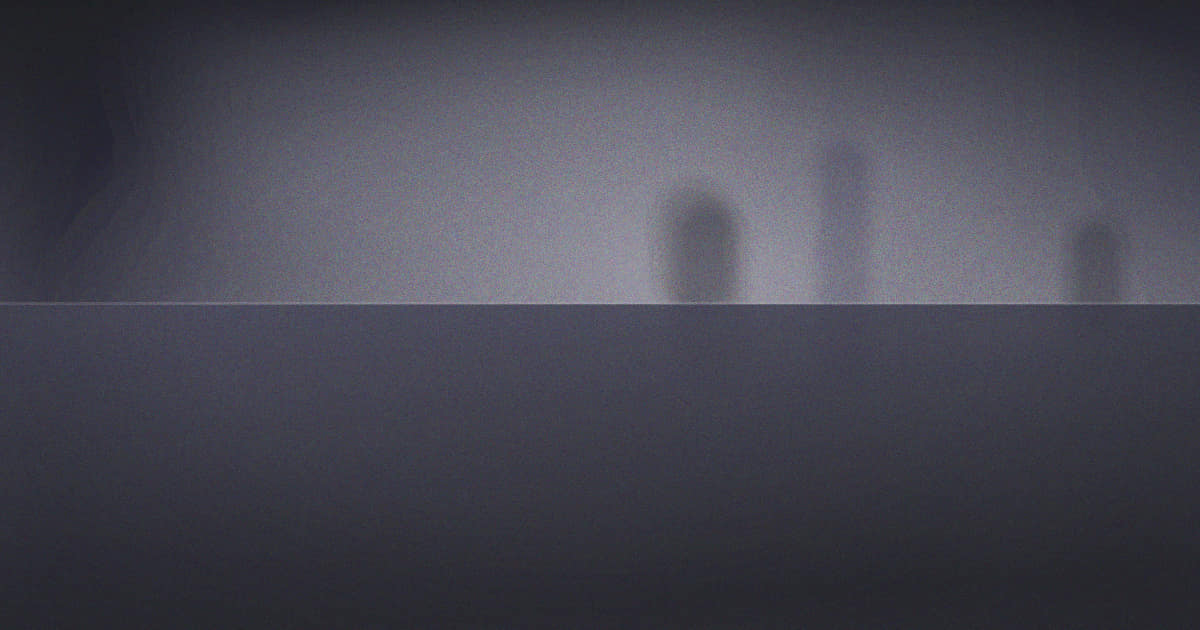
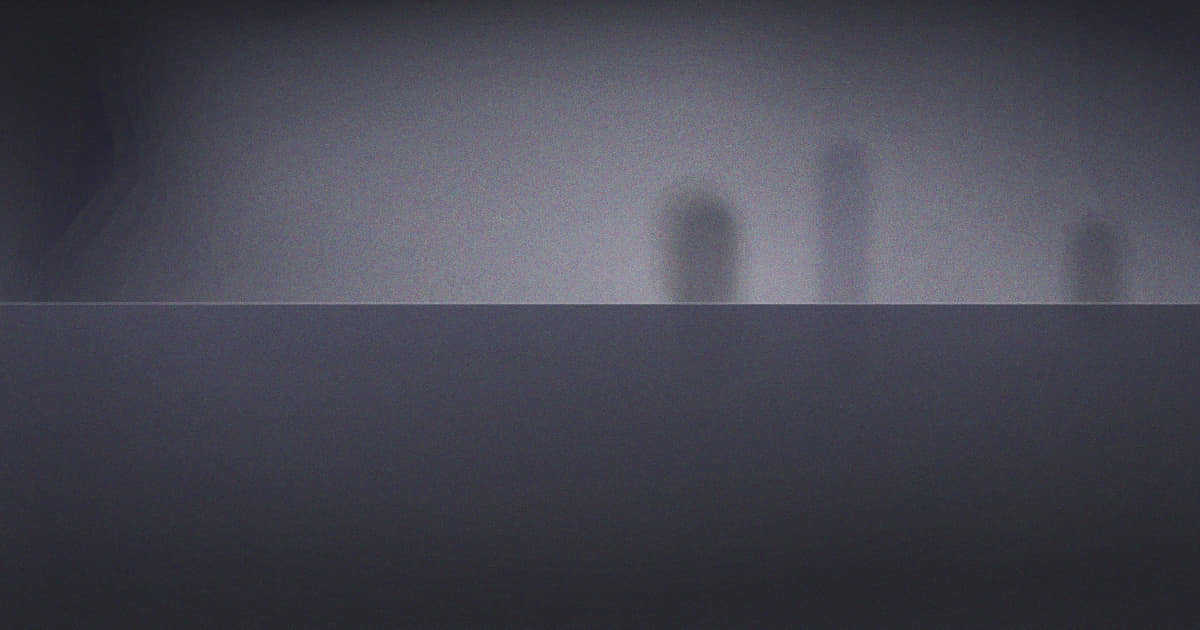
Add the GitHub Pages workflow, and narrow the image script
The workflow type-checks and builds on every push to main and publishes
dist/ as a Pages artifact. The placeholder generator no longer has any
placeholders to generate, so it keeps only the social card and icon.

diff --git a/README.md b/README.md
@@ -23,7 +23,7 @@ npm run dev      # http://localhost:4321
 | `npm run build`      | Static build into `dist/`                         |
 | `npm run preview`    | Serve the built site locally                      |
 | `npm run check`      | Type-check the project                            |
-| `npm run placeholders` | Regenerate the placeholder images (see below)   |
+| `npm run og`         | Re-render `public/og.jpg` and the touch icon      |
 
 ---
 
@@ -46,8 +46,9 @@ Every piece of placeholder content is marked. Search the project for `TODO:`:
 grep -rn "TODO:" src public scripts
 ```
 
-That will turn up the config placeholders, the sample writing, the sample
-story-lane entries, and the placeholder image generator.
+That turns up the config placeholders, the sample writing, and the words
+written for the story-lane photographs — the photographs are yours, but the
+captions and two of the four dates are guesses. Replace them.
 
 ---
 
@@ -65,11 +66,12 @@ Two steps.
 
 ```markdown
 ---
-title: Low tide, ten past six
-date: 2026-03-14
-image: ../../assets/stories/low-tide.jpg
-alt: A pale estuary at dawn, three weathered mooring posts standing in shallow water.
-meta: Estuary · Portra 400
+title: Air City
+date: 2016-06-20
+image: ../../assets/stories/air-city-cover.jpg
+alt: A hand-drawn A4 cover page, “Air” in red block letters and “City” in blue beneath it.
+meta: Cover page · ballpoint on A4
+order: 2
 ---
 
 Whatever you want to say beside the picture. Two short paragraphs usually sits
@@ -79,30 +81,20 @@ best against the image; the layout will take more if you have more.
 | Field   | Required | Notes                                                               |
 | ------- | -------- | ------------------------------------------------------------------- |
 | `title` | yes      | Shown beside the photograph.                                        |
-| `date`  | yes      | `YYYY-MM-DD`. Controls the order of the lane.                        |
+| `date`  | yes      | `YYYY-MM-DD`. Shown above the title, and orders the lane.             |
 | `image` | yes      | Path **relative to the Markdown file**. Build fails if it is wrong.  |
 | `alt`   | yes      | Describe the picture for someone who cannot see it.                  |
-| `meta`  | no       | Small line under the text: place, film stock, camera.                |
-| `order` | no       | Force a position. Lower numbers first; otherwise date decides.       |
+| `meta`  | no       | Small line under the text: place, medium, camera.                    |
+| `order` | no       | Force a position. Lower numbers first; otherwise newest date first.  |
 | `draft` | no       | `true` keeps it in `dev` but out of the built site.                  |
 
 The lane alternates which side the text sits on automatically, so you never
 have to think about it. On screens narrower than about 900 px the text stacks
 under the photograph.
 
-### Bringing your own photographs across
-
-Pull the branch, then:
-
-```bash
-cp ~/Pictures/selects/*.jpg src/assets/stories/
-rm src/assets/stories/0*-*.jpg      # the six placeholders
-npm run dev
-```
-
-Then replace the six files in `src/content/story/` with your own, pointing
-`image:` at your filenames. Delete `scripts/make-placeholders.mjs` and the
-`placeholders` script in `package.json` once you no longer need them.
+The four entries currently in the lane run oldest to newest, which is what the
+`order:` field is doing — without it the newest photograph would open the
+sequence. Drop `order:` from all four if you would rather read it backwards.
 
 Portrait, landscape and square all work; the lane is built around a column, not
 a fixed aspect ratio, so mixing orientations is what gives it rhythm.
@@ -169,11 +161,27 @@ src/
   assets/stories/       ← the photographs themselves
   components/           ← masthead, colophon, and the ink pieces
   layouts/Base.astro    ← the page shell and the reveal observer
+  lib/url.ts            ← wrap internal links in url() — see below
   pages/                ← one file per route
   styles/
     global.css          ← the design system: colour, type, spacing, layout
     motion.css          ← every animation, and the reduced-motion opt-out
 ```
+
+### One rule if you add a link
+
+Astro does not rewrite hrefs you write by hand, so an internal link written as
+`href="/writing/"` would 404 on a site served from a subpath. Pass internal
+paths through the helper instead:
+
+```astro
+---
+import { url } from '../lib/url';
+---
+<a href={url('/writing/')}>Writing</a>
+```
+
+External links, `mailto:` and `#fragments` need nothing.
 
 ### The design system
 
@@ -207,15 +215,47 @@ rather than blank.
 ## Deploying
 
 The site is fully static: `npm run build` writes `dist/`, and any static host
-will serve it. Set your real domain in `site.config.ts` first — the sitemap,
-RSS feed and OpenGraph tags are all built from it.
+will serve it.
 
-If this repository has no remote yet, give it one before connecting a host:
+**Set `url` in `src/site.config.ts` first.** It is the single source of truth
+for the deployed address: canonical links, the sitemap, the RSS feed, the
+OpenGraph tags, and Astro's `base` are all derived from it. If the URL has a
+path in it, every internal link picks that path up automatically.
 
-```bash
-git remote add origin git@github.com:you/your-site.git
-git push -u origin HEAD
-```
+### GitHub Pages
+
+A workflow is already committed at `.github/workflows/deploy.yml`. It runs on
+every push to `main`, type-checks, builds, and publishes `dist/`.
+
+1. **Push the repository to GitHub.**
+
+   ```bash
+   git remote add origin git@github.com:YOU/ink-and-paper.git
+   git push -u origin main
+   ```
+
+2. **Turn Pages on.** Repository → Settings → Pages → *Build and deployment* →
+   **Source: GitHub Actions**. Not "Deploy from a branch" — the workflow
+   publishes an artifact directly.
+
+3. **Set the URL** in `src/site.config.ts` to match where Pages will serve it:
+
+   | Repository name      | Site lives at                       | `url`                                     |
+   | -------------------- | ----------------------------------- | ----------------------------------------- |
+   | `ink-and-paper`      | a subpath of your Pages domain      | `https://YOU.github.io/ink-and-paper`     |
+   | `YOU.github.io`      | the root of your Pages domain       | `https://YOU.github.io`                   |
+   | anything, + a domain | your own domain                     | `https://yourdomain.com`                  |
+
+   Commit and push. The subpath case is the one that usually breaks a static
+   site — here it is handled, but only if `url` actually contains the subpath.
+
+4. **Watch the Actions tab.** The first run takes a couple of minutes; after
+   that the deployed URL appears under Settings → Pages.
+
+For a custom domain, add it under Settings → Pages, create a `public/CNAME`
+file containing the bare domain, and set `url` to `https://yourdomain.com`.
+
+### Other hosts
 
 **Netlify** — connect the repository, or:
 
@@ -240,11 +280,9 @@ Astro (build command `npm run build`, output directory `dist`). Or:
 npm run build && npx wrangler pages deploy dist
 ```
 
-**GitHub Pages** — works too, via `withastro/action`. If you deploy to a
-project subpath rather than a domain root, set `base` in `astro.config.mjs`.
-
-After the first deploy, check that `https://your-domain/sitemap-index.xml` and
-`https://your-domain/rss.xml` both resolve.
+After the first deploy, check that `<your-url>/sitemap-index.xml` and
+`<your-url>/rss.xml` both resolve, and that the navigation works — those three
+are what break when the deployed URL and `site.config.ts` disagree.
 
 ---
 
